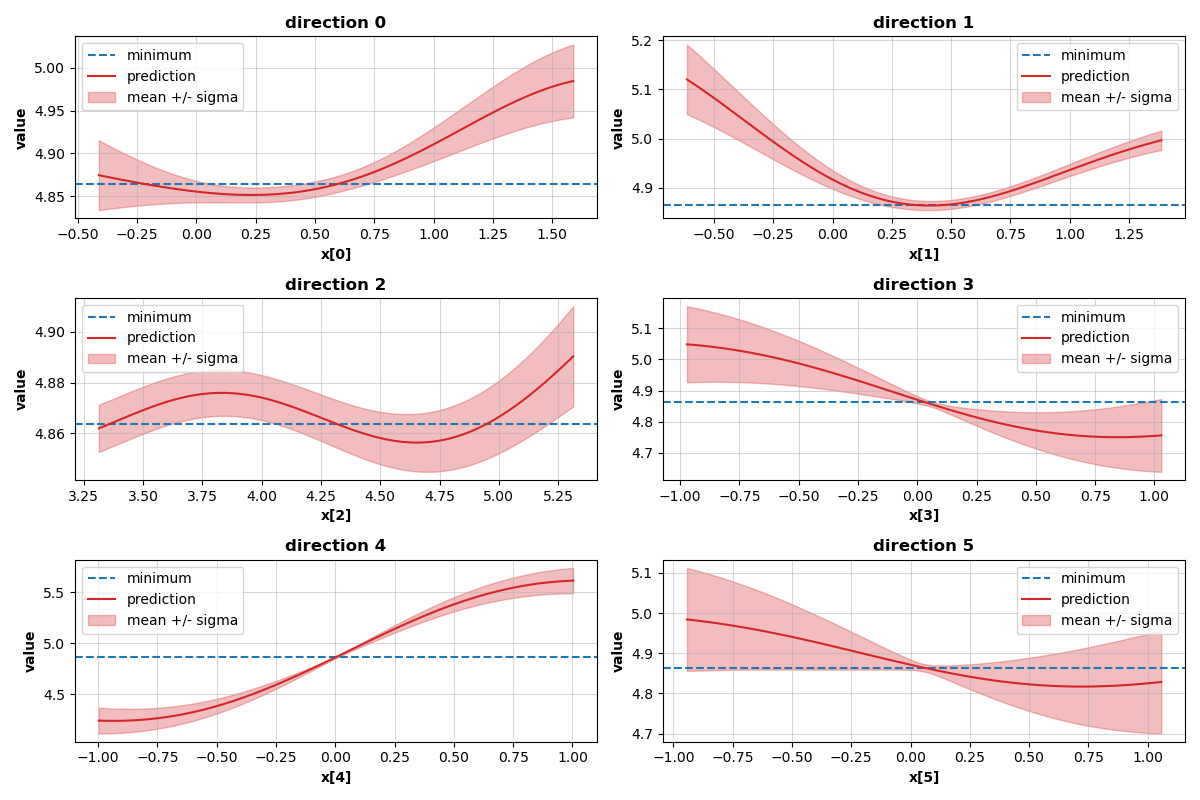
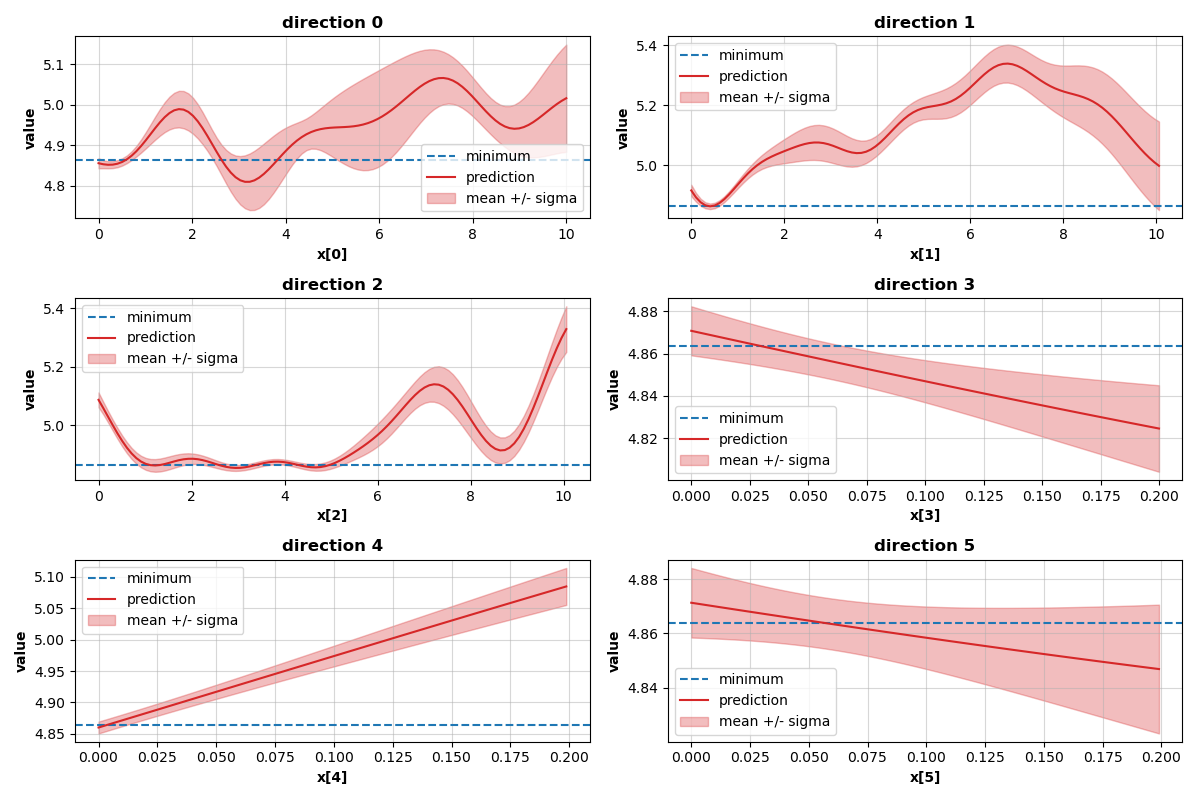
Update

diff --git a/.ipynb_checkpoints/gp_approximation-checkpoint.py b/.ipynb_checkpoints/gp_approximation-checkpoint.py
@@ -105,7 +105,7 @@ fig.savefig("images/rf_approximation.png")
 
 # Minimize the predicted values
 max_boundary = np.max(X, axis=0)
-#max_boundary += np.full_like(max_boundary, 0.1)
+max_boundary += np.full_like(max_boundary, 0.1)
 #min_boundary = np.min(X, axis=0)
 min_boundary = np.zeros_like(max_boundary)
 
@@ -135,7 +135,7 @@ minimize_rf_X_min, minimize_rf_val_min = minimize_rf_res.x, minimize_rf_res.fun
 # Perform grid search for the global minimum
 brute_gp_X_min, brute_gp_val_min = None, float("inf")
 brute_rf_X_min, brute_rf_val_min = None, float("inf")
-for x in itertools.product(*[np.linspace(min_boundary[i], max_boundary[i], 8)
+for x in itertools.product(*[np.linspace(min_boundary[i], max_boundary[i], 10)
                              for i in range(len(min_boundary))]):
     x = np.array(x)
 
@@ -157,7 +157,9 @@ fig1, ax1 = plt.subplots(3, 2, figsize=(12, 8))
 ax1 = ax1.ravel()
 
 for i in range(d):
-    X_range = minimize_gp_X_min + np.array([t * np.eye(d)[i] for t in np.linspace(-1, 1, n_points)])
+    #X_range = minimize_gp_X_min + np.array([t * np.eye(d)[i] for t in np.linspace(-1, 1, n_points)])
+    X_range = np.tile(minimize_gp_X_min, (n_points, 1))
+    X_range[:, i] = np.linspace(min_boundary[i], max_boundary[i], n_points)
     y_gp_pred, std_gp_pred = gp.predict(X_range, return_std=True)
 
     ax1[i].axhline(minimize_gp_val_min, color="tab:blue", ls="--", label="minimum")
@@ -180,7 +182,9 @@ fig2, ax2 = plt.subplots(3, 2, figsize=(12, 8))
 ax2 = ax2.ravel()
 
 for i in range(d):
-    X_range = minimize_rf_X_min + np.array([t * np.eye(d)[i] for t in np.linspace(-1, 1, n_points)])
+    #X_range = minimize_rf_X_min + np.array([t * np.eye(d)[i] for t in np.linspace(-1, 1, n_points)])
+    X_range = np.tile(minimize_rf_X_min, (n_points, 1))
+    X_range[:, i] = np.linspace(min_boundary[i], max_boundary[i], n_points)
     y_rf_pred = rf.predict(X_range)
 
     ax2[i].axhline(minimize_rf_val_min, color="tab:blue", ls="--", label="minimum")
@@ -201,7 +205,9 @@ fig3, ax3 = plt.subplots(3, 2, figsize=(12, 8))
 ax3 = ax3.ravel()
 
 for i in range(d):
-    X_range = brute_gp_X_min + np.array([t * np.eye(d)[i] for t in np.linspace(-1, 1, n_points)])
+    #X_range = brute_gp_X_min + np.array([t * np.eye(d)[i] for t in np.linspace(-1, 1, n_points)])
+    X_range = np.tile(brute_gp_X_min, (n_points, 1))
+    X_range[:, i] = np.linspace(min_boundary[i], max_boundary[i], n_points)
     y_gp_pred, std_gp_pred = gp.predict(X_range, return_std=True)
 
     ax3[i].axhline(brute_gp_val_min, color="tab:blue", ls="--", label="minimum")
@@ -224,7 +230,9 @@ fig4, ax4 = plt.subplots(3, 2, figsize=(12, 8))
 ax4 = ax4.ravel()
 
 for i in range(d):
-    X_range = brute_rf_X_min + np.array([t * np.eye(d)[i] for t in np.linspace(-1, 1, n_points)])
+    #X_range = brute_rf_X_min + np.array([t * np.eye(d)[i] for t in np.linspace(-1, 1, n_points)])
+    X_range = np.tile(brute_rf_X_min, (n_points, 1))
+    X_range[:, i] = np.linspace(min_boundary[i], max_boundary[i], n_points)
     y_rf_pred = rf.predict(X_range)
 
     ax4[i].axhline(brute_rf_val_min, color="tab:blue", ls="--", label="minimum")

diff --git a/gp_approximation.py b/gp_approximation.py
@@ -105,7 +105,7 @@ fig.savefig("images/rf_approximation.png")
 
 # Minimize the predicted values
 max_boundary = np.max(X, axis=0)
-#max_boundary += np.full_like(max_boundary, 0.1)
+max_boundary += np.full_like(max_boundary, 0.1)
 #min_boundary = np.min(X, axis=0)
 min_boundary = np.zeros_like(max_boundary)
 
@@ -135,7 +135,7 @@ minimize_rf_X_min, minimize_rf_val_min = minimize_rf_res.x, minimize_rf_res.fun
 # Perform grid search for the global minimum
 brute_gp_X_min, brute_gp_val_min = None, float("inf")
 brute_rf_X_min, brute_rf_val_min = None, float("inf")
-for x in itertools.product(*[np.linspace(min_boundary[i], max_boundary[i], 8)
+for x in itertools.product(*[np.linspace(min_boundary[i], max_boundary[i], 10)
                              for i in range(len(min_boundary))]):
     x = np.array(x)
 
@@ -157,7 +157,9 @@ fig1, ax1 = plt.subplots(3, 2, figsize=(12, 8))
 ax1 = ax1.ravel()
 
 for i in range(d):
-    X_range = minimize_gp_X_min + np.array([t * np.eye(d)[i] for t in np.linspace(-1, 1, n_points)])
+    #X_range = minimize_gp_X_min + np.array([t * np.eye(d)[i] for t in np.linspace(-1, 1, n_points)])
+    X_range = np.tile(minimize_gp_X_min, (n_points, 1))
+    X_range[:, i] = np.linspace(min_boundary[i], max_boundary[i], n_points)
     y_gp_pred, std_gp_pred = gp.predict(X_range, return_std=True)
 
     ax1[i].axhline(minimize_gp_val_min, color="tab:blue", ls="--", label="minimum")
@@ -180,7 +182,9 @@ fig2, ax2 = plt.subplots(3, 2, figsize=(12, 8))
 ax2 = ax2.ravel()
 
 for i in range(d):
-    X_range = minimize_rf_X_min + np.array([t * np.eye(d)[i] for t in np.linspace(-1, 1, n_points)])
+    #X_range = minimize_rf_X_min + np.array([t * np.eye(d)[i] for t in np.linspace(-1, 1, n_points)])
+    X_range = np.tile(minimize_rf_X_min, (n_points, 1))
+    X_range[:, i] = np.linspace(min_boundary[i], max_boundary[i], n_points)
     y_rf_pred = rf.predict(X_range)
 
     ax2[i].axhline(minimize_rf_val_min, color="tab:blue", ls="--", label="minimum")
@@ -201,7 +205,9 @@ fig3, ax3 = plt.subplots(3, 2, figsize=(12, 8))
 ax3 = ax3.ravel()
 
 for i in range(d):
-    X_range = brute_gp_X_min + np.array([t * np.eye(d)[i] for t in np.linspace(-1, 1, n_points)])
+    #X_range = brute_gp_X_min + np.array([t * np.eye(d)[i] for t in np.linspace(-1, 1, n_points)])
+    X_range = np.tile(brute_gp_X_min, (n_points, 1))
+    X_range[:, i] = np.linspace(min_boundary[i], max_boundary[i], n_points)
     y_gp_pred, std_gp_pred = gp.predict(X_range, return_std=True)
 
     ax3[i].axhline(brute_gp_val_min, color="tab:blue", ls="--", label="minimum")
@@ -224,7 +230,9 @@ fig4, ax4 = plt.subplots(3, 2, figsize=(12, 8))
 ax4 = ax4.ravel()
 
 for i in range(d):
-    X_range = brute_rf_X_min + np.array([t * np.eye(d)[i] for t in np.linspace(-1, 1, n_points)])
+    #X_range = brute_rf_X_min + np.array([t * np.eye(d)[i] for t in np.linspace(-1, 1, n_points)])
+    X_range = np.tile(brute_rf_X_min, (n_points, 1))
+    X_range[:, i] = np.linspace(min_boundary[i], max_boundary[i], n_points)
     y_rf_pred = rf.predict(X_range)
 
     ax4[i].axhline(brute_rf_val_min, color="tab:blue", ls="--", label="minimum")
